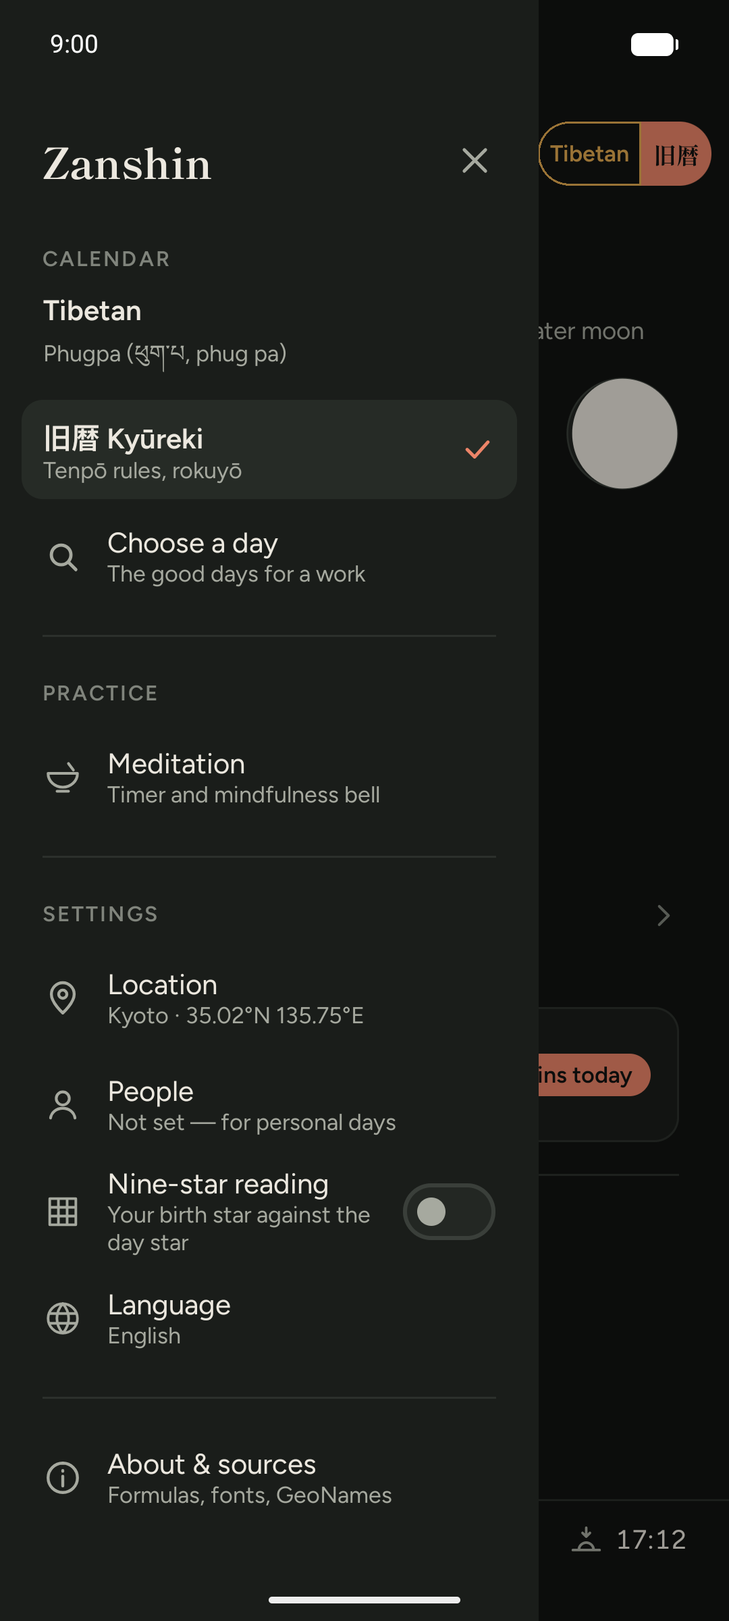
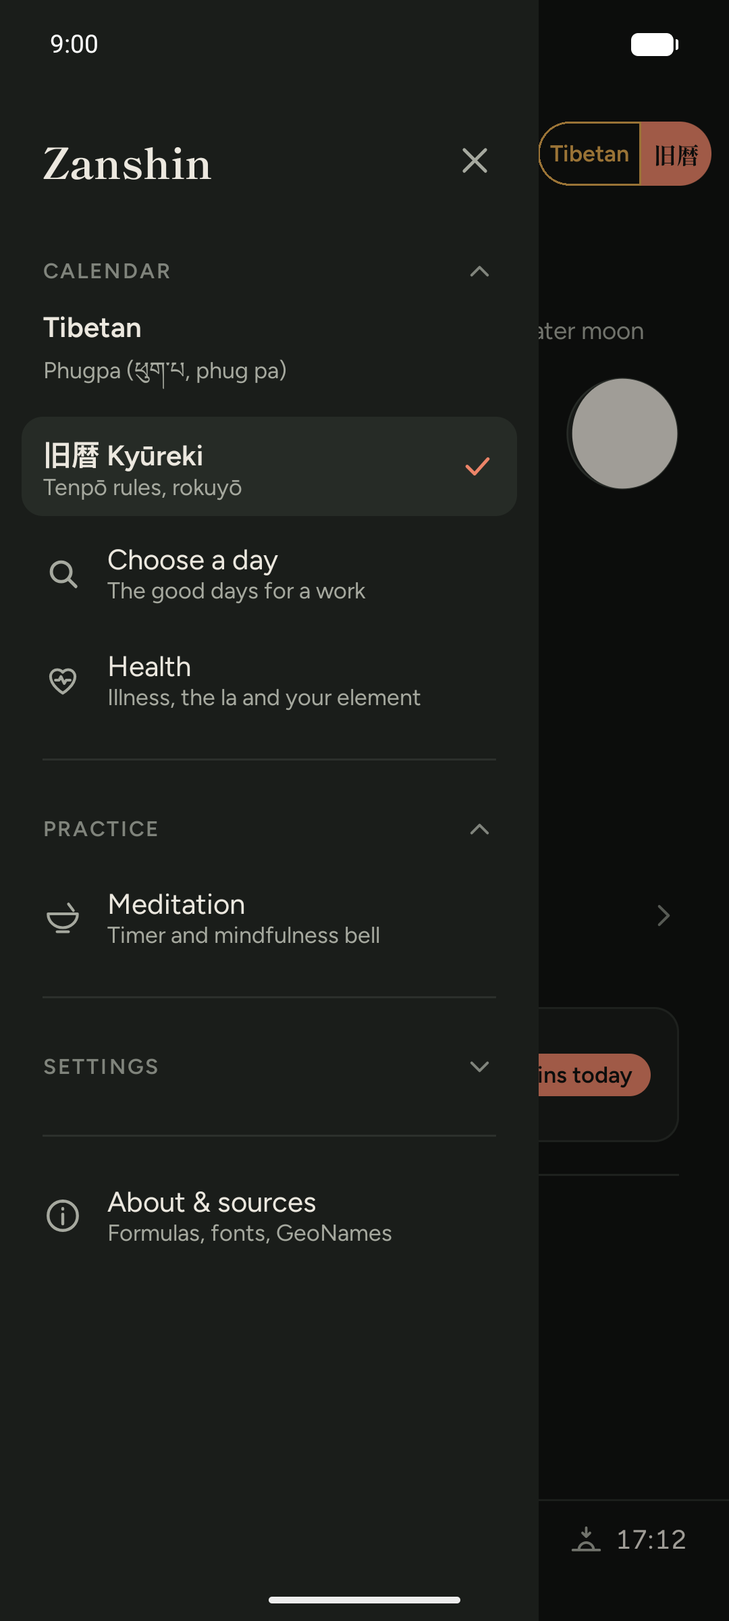
docs: the Health screen and the menu's groups (H1, H3, block 26)
SPEC 5.8 adds the element's mansions, the la and the day's illness as
built, with the reading of the tables' 21 as Abhijit among earth's four;
10.3 moves the vitality and body from Your day to Health; 10.5 gives the
menu's Health row and the groups that fold; 10.10 describes the Health
screen tab by tab and what is left; 8.3 names the Four Tantras. ROADMAP
marks block 26, H1 and H3 built with what was checked, and leaves D14
to the owner: the la's place on the 4th, 10th, 15th and 29th follows
WB's Phugpa list, where Dr. Chenagtsang's course differs. That TalkBack
speaks a header's state was not heard on the emulator, where injected
input did not move TalkBack's focus into the drawer.

README and both store listings name the Health screen. Store shot 5,
the menu, is retaken in both languages with Calendar and Practice
opened and Settings closed; store_shots.py opens them, and opens
Practice before Meditation for shot 6. Its caption and alt text say the
groups fold.

diff --git a/tools/emulator/store_shots.py b/tools/emulator/store_shots.py
@@ -8,7 +8,7 @@
 2. 旧暦 day: 2026-10-23 (十三夜, 霜降 begins), in Kyoto
 3. The Saga Dawa Düchen reading sheet, opened from the heading
 4. The 旧暦 almanac bands, from 中段 down
-5. The menu over the 旧暦 page
+5. The menu over the 旧暦 page, its Calendar and Practice groups opened, Settings left closed
 6. The meditation timer: a zazen of 20, 10 and 30 minutes, set from its preset
 7. The year of age of a man born 1976-06-01 (a fire dragon year, chart 6.2's
    subject) in 2026, opened from the year's balloon on 2026-10-23 in Lhasa
@@ -35,9 +35,11 @@ from emu import BIRTH_1976_06_01, KYOTO, LHASA, adb, nodes, prefs, language, res
 
 LABELS = {
     "en": {"festival": r"^Saga Dawa Düchen$", "menu": r"[Mm]enu", "meditation": r"^Meditation$",
-           "year": r"^Fire Horse year$", "year_of_age": r"year of age", "person": "Tenzin"},
+           "year": r"^Fire Horse year$", "year_of_age": r"year of age", "person": "Tenzin",
+           "calendar": r"^CALENDAR$", "practice": r"^PRACTICE$"},
     "ru": {"festival": r"^Сага Дава Дючен$", "menu": r"меню", "meditation": r"^Медитация$",
-           "year": r"Огонь-Лошадь$", "year_of_age": r"год жизни", "person": "Тензин"},
+           "year": r"Огонь-Лошадь$", "year_of_age": r"год жизни", "person": "Тензин",
+           "calendar": r"^КАЛЕНДАРЬ$", "practice": r"^ПРАКТИКА$"},
 }
 
 # The timer's presets for shot 6, named in the listing's language; the zazen is the plan set.
@@ -137,10 +139,14 @@ try:
     adb("shell", "input", "swipe", "540", "700", "540", "2000", "150")
     adb("shell", "input", "swipe", "540", "700", "540", "2000", "150")
     tap_at(find(labels["menu"], desc=True))
+    # The groups are closed on a fresh install (ROADMAP H3): two opened, one left closed, so the shot shows both.
+    tap_at(find(labels["calendar"]))
+    tap_at(find(labels["practice"]))
     shot(5)
 
     day("10230900", 2026, "KYUREKI", KYOTO, strings={"sit_plan": ZAZEN, "sit_presets": PRESETS[lang]})
     tap_at(find(labels["menu"], desc=True))
+    tap_at(find(labels["practice"]))
     tap_at(find(labels["meditation"]))
     shot(6)
 

diff --git a/docs/ROADMAP.md b/docs/ROADMAP.md
@@ -30,7 +30,7 @@ with the one that gives it a use. "Later" is not ranked.
 | 9 | T2.27 WB's days of the twelve links — built 2026-10-15 | S | WB's own reading of each link's day (vol. 2, pp. 351–356), found unread on 2026-10-11: works, directions, illness, remedy; it joins the link's lists | — |
 | 10 | A1 Light theme and colour themes | L | The palette is one dark `Palette` object, read about 510 times in 20 files, 29 of them in Canvas code; it becomes a theme chosen in Settings, with a light theme and dark and light alternatives, every tone and printed colour kept legible on each; the checks of the review of 2026-10-11 in its section | — (D5 settled 2026-10-11); U8–U18 and X2 first, so the screenshots are retaken once |
 | 11 | T2.26 The year's and the month's earth lords | L | WB's almanac writes them at the head of the year and of each month, and ch. 31's pp. 175–221 are unread; Year and Month tabs, their works counted (the owner, 2026-10-11) | D4, how they are counted |
-| 12 | H1–H3 The health screen, and the menu's groups collapsible | L | A screen of its own from the menu, with Tibetan medicine beside WB (Dr. Nida Chenagtsang, trusted by the owner): the element's mansions by the life force (left by T2.19), the la's place, vitality and body, the day's illness readings, then WB's illness reckoning; with it the menu's groups collapsible, closed by default, each remembering its last state (H3, S), since the screen is the first of several that lengthen the menu | T2.27; R1 for H2 |
+| 12 | H1–H3 The health screen, and the menu's groups collapsible — H1 and H3 built 2026-10-15, H2 open | L | A screen of its own from the menu, with Tibetan medicine beside WB (Dr. Nida Chenagtsang, trusted by the owner): the element's mansions by the life force (left by T2.19), the la's place, vitality and body, the day's illness readings, then WB's illness reckoning; with it the menu's groups collapsible, closed by default, each remembering its last state (H3, S), since the screen is the first of several that lengthen the menu | T2.27; R1 for H2 |
 | 13 | P1–P3 Relatives, the obstacles that need them, the bride's departure | L | The readings T4 left for want of other people's dates, and WB ch. 23's bride's departure, on relatives added to each saved person | P1 first |
 | 14 | R The reckonings, a section of their own | XL | WB's pebble divinations, chapters 20–30, in a menu section as Meditation has; the year of age moves there | R1 first; P1 for those that need relatives |
 | 15 | U8–U18 The UX review of 2026-10-11 | M | Eleven small items, each S, none changing a side, a tone or a reading: the sky line as one line, the date picker's jump, the brief's rows in the 旧暦 brief's form, the hours in short form, dots that read, second lines that state the fact, the election's civil dates, the calendar toggle, the two briefs alike, the bell's time picker, a first-run line; all eleven built 2026-10-11, blocks 34 to 37 | — |
@@ -80,7 +80,7 @@ moves up as soon as it is unblocked.
 | <a id="block-23"></a>23 | [T2.25](#t2-25) The Lunar day section by use — built 2026-10-10, released as 2.4.1 | — | — | Build block 23: T2.25, keep in the Lunar day section only what can be used or weighed, the hundred feet in Your day. |
 | <a id="block-24"></a>24 | [T2.27](#t2-27) WB's days of the twelve links — built 2026-10-15 | [RD1](#rd1) | [42](#block-42), the shape its readings are written in | Build block 24: T2.27, join WB's days of the twelve links (RD1) to the day's link. |
 | <a id="block-25"></a>25 | [T2.26](#t2-26) The year's and the month's earth lords | [RD2](#rd2), [RD3](#rd3), [RD4](#rd4), [RD5](#rd5), [RD6](#rd6) | [42](#block-42), the shape its readings are written in ([D4](#t2-26), the owner's choice of how they are counted) | Build block 25: T2.26, the Year and Month tabs from RD2–RD6, their works counted as D4 says. |
-| <a id="block-26"></a>26 | [H1](#h1) The health screen + [H3](#h3) The menu's groups collapsible | [RD1](#rd1), [RD7](#rd7), [RD8](#rd8), [RD9](#rd9), [RD10](#rd10) | [42](#block-42), the shape its readings are written in | Build block 26: H1, the Health screen from RD1 and RD7–RD10, with the element's mansions, and H3, the menu's groups collapsible, closed by default, each remembering its last state. |
+| <a id="block-26"></a>26 | [H1](#h1) The health screen + [H3](#h3) The menu's groups collapsible — built 2026-10-15 ([D14](#h1) for the owner) | [RD1](#rd1), [RD7](#rd7), [RD8](#rd8), [RD9](#rd9), [RD10](#rd10) | [42](#block-42), the shape its readings are written in | Build block 26: H1, the Health screen from RD1 and RD7–RD10, with the element's mansions, and H3, the menu's groups collapsible, closed by default, each remembering its last state. |
 | <a id="block-27"></a>27 | [P1](#p1) Relatives | [RD13](#rd13), [RD14](#rd14), [RD15](#rd15), [RD16](#rd16) | — | Build block 27: P1, the relatives of each saved person. |
 | <a id="block-28"></a>28 | [R1](#r) The Reckonings section | [RD11](#rd11) | — | Build block 28: R1, open the Reckonings section from RD11's inventory, with the year of age moved into it. |
 | <a id="block-29"></a>29 | [P2](#p2) The natal trigram and the obstacles | [RD13](#rd13), [RD14](#rd14) | [27](#block-27), [28](#block-28) | Build block 29: P2, the natal trigram and the spouses' and the dead's obstacles. |
@@ -867,8 +867,8 @@ it. It is item E below, built 2026-10-09.
   матери» and the birth mansion), and with no birth date (no row).
 - **Left.** The element's mansions by the life force (p. 330, tables
   p. 345: own, mother, friend, child, enemy quarters and the grave
-  mansions), which would put a second row on every day: planned on the
-  Health screen (H1, 2026-10-11); the mansion of
+  mansions), which would put a second row on every day: built on the
+  Health screen (H1, 2026-10-15); the mansion of
   conception (no source defines it); E6's exception for the enemy weekday
   and the death mansion.
 
@@ -1285,7 +1285,7 @@ verdict, and the owner's decisions of 2026-10-10:
   friends gain feeling beside the horse, and 28 January's war loses the
   Zon trigram, the sense sources naming taking a town good. Left out, as
   the Work says or as the shape requires: the loss (no row holds it), the
-  illness (H1), p. 356's hours (question 19), and the unidentified words
+  illness (H1, built 2026-10-15 as the link's Illness row), p. 356's hours (question 19), and the unidentified words
   (day-letters.md, *What the app takes from them*). Checked on the
   emulator in both languages (contact's day, 2026-10-15).
 
@@ -2761,49 +2761,54 @@ menu's groups collapsible (H3).
   does not reckon, no works or no weight, is shown on its tab with a
   grey dot: it has some influence, and WB's weighing does not count it.
 
-### <a id="h1"></a>H1. The health screen — planned 2026-10-11
+### <a id="h1"></a>H1. The health screen — built 2026-10-15 (SPEC §5.8, §8.3, §10.3, §10.5, §10.10)
 
-- **What WB has.** Read on the scan where marked; the rest found in the
-  etext:
-  - the element's mansions by the life force (vol. 2, p. 330, tables
-    pp. 345–346, read: [personal-mansions.md](sources/personal-mansions.md),
-    *By element*): the own, mother, friend, child and enemy quarters and
-    the great and small grave mansions; the same table's weekdays are
-    built (T2.19);
-  - the la's place in the body by date (vol. 2, pp. 303–305, read and
-    built, T2.16, in the lunar date's sheet), and the hair dates (p. 404,
-    built, T2.15);
-  - the vitality and body of the date and the hour against the birth
-    year, the divination of health (built, SPEC §5.9: Your day and the
-    hours panel);
-  - the illness parts of the date's, weekday's, link's and day animal's
-    readings (vol. 2, pp. 297–312, 351–359; the links', read in RD1,
-    left by [T2.27](#t2-27) for this screen), and the trigram's goddesses (vol. 1, pp. 449–450,
-    built);
-  - bloodletting and moxa in the readings of the year of age's mewa
-    (vol. 1, pp. 403–405), to be checked against the year sheet (T4);
-  - the medical works the weighing already decides (taking and starting
-    medicine, treatment, surgery, bloodletting, making medicine:
-    `Activities.kt`).
-- **Work.** First a reading pass, WB (vol. 1, ch. 20, 21 and 25; vol. 2,
-  ch. 33) and Dr. Chenagtsang's works, for the movements of the la and
-  the life force (*srog*) through the body and for health and illness by
-  date, month, hour and age, into `docs/sources/health.md`, with what is
-  calculable and whose it is. Then the Health screen from the menu, in
-  tabs by subject as the reading sorts them: with a birth date, the day's
-  mansion as one of the element's quarters for the life force with
-  p. 330's reading, vitality and body (moved from Your day) and the la's
-  place; for everyone, the day's illness readings and the medical works'
-  sides as the weighing gives them; what the medical sources add, with
-  the grey dot where WB does not reckon it. Your day links to the screen.
-  Whether the enemy and grave mansions are absolute as the enemy weekday
-  is (E6) is settled from the text: p. 338 names the weekday only.
-- **Block.** [26](#block-26); reads [RD1](#rd1), [RD7](#rd7), [RD8](#rd8), [RD9](#rd9), [RD10](#rd10); builds on
-  [42](#block-42) for the shape its readings are written in ([X1](#x1)).
-- **Done when.** Vectors for the test birth date (1976-06-01, life force
-  earth); `CatalogTest`; SPEC §5.8, §8.3, §10.3, §10.5; both languages
-  on the emulator; one line on the screen that its readings are the
-  tradition's, not medical advice.
+The Health screen from the menu and from Your day, on the shown day, in
+four tabs: Today (falling ill today, by the date's round of eight with
+the perilous days, the weekday, the link and the goddess of the day; the
+la's place by the date and its course within the day), You (the day's
+mansion as a quarter of the life force's element, the grave mansions,
+the la's element, the vitality and body moved from Your day, the year
+of age on the seven-red), Treatment (the medical works as the person's
+day page gives them) and Medicine (the Four Tantras' humours and
+seasons with the grey dot), and a line that the readings are the
+tradition's, not medical advice. The illness lines are Illness rows of
+the date's, weekday's and link's readings, so the day page's sheets
+show them too. What WB has and what the readings found is in
+[sources/health.md](sources/health.md) (RD7–RD10, RD12).
+
+- **Settled from the text.** The enemy and grave mansions are not
+  absolute as the enemy weekday is (E6): p. 338 names the weekday only,
+  and neither mansion has a reading for the living's day (RD10); the
+  enemy quarter is shown with no dot, the grave mansions as reckoned for
+  the dead. The tables' 21 among earth's four is Abhijit (vol. 1,
+  p. 232), so earth's fourth and three grave mansions fall on no day.
+- **Checked.** `HealthTest` (the five tables of pp. 345–346 cell by
+  cell, the la's element, the round of eight, the test birth date
+  1976-06-01, life force earth, la fire, over 15–24 October 2026: child
+  mansions Anurādhā to Śravaṇa, friend Dhaniṣṭhā to Pūrvabhādrapadā);
+  `CatalogTest` with the new families held to the shape, no allowance
+  (H1), X4's allowance down to 24 with the dremo named one way;
+  `TranslationsTest`. On the emulator in English and Russian
+  (15 October 2026: Anurādhā a child mansion, the 5th's illness and the
+  hollow of the knee, the enemy weekday's day with no good work under
+  Treatment; 18 October, the 8th, a perilous day; 15 June 2027 with a
+  person born 1977-06-01, the seven-red and Citrā an own mansion).
+- **Left.** The six moxa dates and the syllables of Dr. Chenagtsang's
+  tables, which are not WB's (RD8, RD9); the la pulse, read at the pulse
+  and not by date; which Tibetan months the Four Tantras' seasons are,
+  which no source read gives, so the Medicine tab names no season as
+  today's; WB's illness reckoning (H2).
+- **D14, the owner's word first** (RD8, open questions 58 and 84,
+  [sources/health.md](sources/health.md), *KL's tables in WB*): the la's
+  place by date follows WB's Phugpa list (p. 303), as the lunar dates'
+  readings already did. Dr. Chenagtsang's course, the Tsuglag Rigje
+  column of Deumar's table with Mipham's crown and sole, differs on four
+  dates: the 4th the knee (WB the waist), the 10th the shoulder blade
+  (WB the top of the shoulder), the 15th the crown and whole body (WB the
+  shoulder blade), the 29th the instep (WB the shin). Whether the screen
+  keeps WB's alone, or gives his beside it with the grey dot, is the
+  owner's; until then WB's stands.
 
 ### <a id="h2"></a>H2. The illness reckoning — planned 2026-10-11
 
@@ -2819,39 +2824,19 @@ menu's groups collapsible (H3).
 - **Done when.** Vectors where Dorje or WB give a worked example;
   `CatalogTest`; SPEC; both languages.
 
-### <a id="h3"></a>H3. The menu's groups collapsible — planned 2026-10-11
+### <a id="h3"></a>H3. The menu's groups collapsible — built 2026-10-15 (SPEC §10.5)
 
-- **Gap.** The menu (SPEC §10.5) is one column in three groups, Calendar,
-  Practice and Settings, with About & sources at the foot, and today it
-  fits a phone screen. The Health screen (H1) adds a row, Reckonings (R1)
-  a group with a screen for each reckoning built, the themes (A1) a
-  settings row: the column scrolls, and the row wanted is below the fold.
-  The owner (2026-10-11): the groups collapsible, collapsed by default,
-  each remembering the state it was last left in.
-- **Work.** Each group's small-capital label becomes a header row that
-  opens and closes its group, with a chevron that turns to show the
-  state; the rows fold with an animation of the height; About & sources
-  stays alone at the foot, always shown, outside any group. On a fresh
-  install every group is closed; the state is kept per group in the
-  preferences (`Settings.kt`, one key per group, as the first-run
-  counters are), so a group opened stays open across the menu's closing
-  and the app's restart, and one closed stays closed, each apart from the
-  others. A new group (R1) starts closed as well. The page's calendar
-  toggle (U15) switches the calendar, so a closed Calendar group hides
-  nothing needed daily. Screen readers get each header as a button with
-  its expanded state. No reading: the headers are the groups' present
-  labels, the only new interface text the headers' descriptions.
-  SPEC §10.5.
-- **Block.** [26](#block-26), with H1, the first item that lengthens the
-  menu; no reading; waits on no build.
-- **Done when.** A fresh install on the emulator opens the menu with every
-  group closed and About & sources shown; a group opened stays open
-  across the menu's closing and a restart, one closed stays closed, each
-  apart from the others; TalkBack reads each header with its state; both
-  languages; `TranslationsTest`; SPEC §10.5; store shot 5 (the menu)
-  retaken in both languages, its caption in `screenshots.toml` saying
-  the groups fold, and `tools/emulator/store_shots.py` opening the
-  groups the shot shows.
+Each group's label is a header row with a turning chevron that opens and
+closes its rows; every group closed on a fresh install, each keeping its
+own last state in the preferences; About & sources outside the groups.
+Checked on the emulator: a fresh install opens the menu with the three
+groups closed and About & sources shown; the Calendar group opened stays
+open after the app is stopped and started, the other two closed; both
+languages; `TranslationsTest`. Each header is a button with its state
+("open", "closed") for screen readers; that TalkBack speaks it was not
+heard on the emulator, where injected taps and keys did not move
+TalkBack's focus into the drawer. Store shot 5 (the menu) opens the
+groups it shows (`tools/emulator/store_shots.py`).
 
 ## People
 

diff --git a/docs/SPEC.md b/docs/SPEC.md
@@ -236,7 +236,10 @@ day by day against Henning's computed calendars (§9):
 | Monthly observances | 8th, 10th, 15th (Sojong), 25th, 30th (Sojong), after Edition Rabten |
 | Personal day | luck, life or anti weekday for the animal of the birth year (Rabten's table); needs a birth date (§10.5) |
 | Personal mansions | whether the day's mansion is one of the six of the birth-year animal (bla, srog, dbang, skeg, bdud, gshed skar): the White Beryl, vol. 2, p. 330 (1996), its slips settled by the Sakya *nor bu'i me long* (p. 64) and Nam mkha' seng ge's *skar yig*, which print the same table ([sources/personal-mansions.md](sources/personal-mansions.md)); bla, srog and dbang skar lucky, the other three unlucky, as both texts call them; needs a birth date |
-| Own days by the birth date | WB vol. 2, p. 338 (`ownDays`, ROADMAP T2.19): the birth weekday (the weekday of the birth date, p. 379); the weekday's place among the five of one's element, counted from the birth year's life force (*srog*), which p. 330 says is reckoned as the clan's element is: own (*rang gza'*, WB's *bla* and *dbang gza'* too, not the birth animal's *bla gza'*), mother, friend, child, enemy by the elements' relations, as the table of p. 346 gives them (`elementWeekday`), the weekdays' elements those of the *nag rtsis* (vol. 1, p. 257: Sun and Mars fire, Moon and Mercury water, Jupiter wood, Venus iron, Saturn earth); and the birth mansion, the almanac's mansion of the birth date (Phug pa Lhun grub rgya mtsho's coarse reckoning; no hour is asked). Birth and own weekday lucky with p. 338's works (battle array, contests of skill, pleading a case, trade, trials of strength, dice, horse races, archery, works that stir up strife); mother and friend lucky, anything good (p. 330); child no dot, middling (p. 330); enemy unlucky, every work avoided (p. 338); birth mansion lucky with p. 338's works. The element's mansions (p. 330, tables p. 345) and the mansion of conception (no source defines it) are not built ([sources/personal-mansions.md](sources/personal-mansions.md)); needs a birth date |
+| Own days by the birth date | WB vol. 2, p. 338 (`ownDays`, ROADMAP T2.19): the birth weekday (the weekday of the birth date, p. 379); the weekday's place among the five of one's element, counted from the birth year's life force (*srog*), which p. 330 says is reckoned as the clan's element is: own (*rang gza'*, WB's *bla* and *dbang gza'* too, not the birth animal's *bla gza'*), mother, friend, child, enemy by the elements' relations, as the table of p. 346 gives them (`elementWeekday`), the weekdays' elements those of the *nag rtsis* (vol. 1, p. 257: Sun and Mars fire, Moon and Mercury water, Jupiter wood, Venus iron, Saturn earth); and the birth mansion, the almanac's mansion of the birth date (Phug pa Lhun grub rgya mtsho's coarse reckoning; no hour is asked). Birth and own weekday lucky with p. 338's works (battle array, contests of skill, pleading a case, trade, trials of strength, dice, horse races, archery, works that stir up strife); mother and friend lucky, anything good (p. 330); child no dot, middling (p. 330); enemy unlucky, every work avoided (p. 338); birth mansion lucky with p. 338's works. The mansion of conception (no source defines it) is not built ([sources/personal-mansions.md](sources/personal-mansions.md)); needs a birth date |
+| The element's mansions | WB vol. 2, p. 330, with the tables pp. 345–346 (`Health.quarter`, ROADMAP H1): the day's mansion as a quarter of the element of the birth year's life force, counted as the weekdays are: the six eastern mansions from Kṛttikā (2–7) wood, the six southern (9–14) fire, the six western (16–21) iron, the six northern (22–26 and Aśvinī) water, the four between (Bharaṇī, Āśleṣā, Viśākhā and Abhijit) earth; own (good for anything), mother and friend (good), child (middling, no dot), enemy (no reading of its own, no dot; "every work avoided" is the enemy weekday's, p. 338). The tables print 21 both among the western six and among earth's four; WB vol. 1, p. 232 ends the western six with Śravaṇa and names Abhijit among the four, so a day in Śravaṇa is iron's and earth's fourth falls on no day. The great and small grave mansions of each element, all among earth's four (wood Viśākhā and Bharaṇī, fire Abhijit and Āśleṣā, earth Āśleṣā and Abhijit, iron Bharaṇī and Viśākhā, water Āśleṣā and Abhijit), are reckoned for the dead and have no reading for the living's day; shown on the Health screen (§10.10), not weighed; needs a birth date |
+| The la | Its element the mother of the life force's (WB vol. 1, p. 253: water for wood, fire for earth); its place by the lunar date, the Phugpa list of WB vol. 2, p. 303, as the lunar date's reading gives it; its course within any day (p. 304): both feet at daybreak, the neck at sunrise, the hollow of the nape early in the morning, the lips late in the morning, the middle of the chest at noon, the navel early in the afternoon, the heart late in the afternoon, the back towards evening, both feet at sunset, spread above the navel from dusk to daybreak, the verse's times and not the clock's; where it stands, bloodletting, moxibustion and other treatment are avoided ([sources/health.md](sources/health.md), RD10) |
+| The day's illness | What falling ill on the day means, as Illness rows of three readings: the lunar date's, dates 1–8 with lines of their own and every later date the same as one of them in a round of eight (WB vol. 2, pp. 297–302; the 9th as the 1st, the 30th as the 6th), the 8th, 15th, 22nd and 30th marked as the four perilous days (p. 302); the weekday's (pp. 308–312); the link's, how long the illness runs (pp. 351–356). Doubtful words are left out (the date's «ཀླུ་གྲ», the rites of the 1st's last line) ([sources/health.md](sources/health.md)) |
 
 **The times within the day** (`DayTimes`; the White Beryl, vol. 1,
 pp. 177–178 and ch. 15, pp. 180–182; [sources/almanac-page.md](sources/almanac-page.md),
@@ -1008,7 +1011,7 @@ voices, so that the tone and the lists cannot go separate ways.
   voice's dot is solid: the other rows' dots are outlines, so that the
   column of dots reads as each voice's own tone and not as a count of
   sides, which the White Beryl does not make (above). What is shown but not weighed stands apart: the person's
-  own days and mansions in "Your day", with vitality and body; the
+  own days and mansions in "Your day", the vitality and body on the Health screen (§10.10); the
   *bla mkhyen*, the great black day and the earth lords' courses (§5.13) in "Also today". The nectar periods, times within the day
   (§5.13), are in the brief's "By the hour" and on the hours panel, not
   in the Almanac.
@@ -1885,6 +1888,9 @@ name both. Sewing tents is a third, beside pitching them.
 | The eclipses, by the *byed rtsis* | The White Beryl, Beijing 1996, vol. 1, ch. 4, pp. 31–32, and ch. 9, pp. 59, 62 and 65 (BDRC MW2CZ8040); checked against Jean Meeus, *Astronomical Algorithms*, 2nd ed., ch. 54 |
 | The letters of the day: the Kālacakra's and the *dbyangs 'char*'s vowels and consonants, the stage, the twelve links, the hundred feet | The White Beryl, Beijing 1996, vol. 1, pp. 16–19, 97–98, 150–153 and 173–178, with the Zhol print (BDRC MW1KG1617) for the table and the model almanac (BDRC MW2CZ8040) |
 | The earth lords that move by date, Rāhu's among them | The White Beryl, Beijing 1996, vol. 2, pp. 226–235, with the results pp. 364 and 368–369, and the model almanac, vol. 1, pp. 154–171 (BDRC MW2CZ8040) |
+| The element's mansions and grave mansions | The White Beryl, Beijing 1996, vol. 2, p. 330 and the tables pp. 345–346, with vol. 1, p. 232 for Abhijit (BDRC MW2CZ8040) |
+| The la's element, course and the illness of the day; the year of age on the seven-red | The White Beryl, Beijing 1996, vol. 1, pp. 253 and 403–404, vol. 2, pp. 297–304, 308–312 and 351–356 (BDRC MW2CZ8040) |
+| The humours and the seasons (the Health screen's Medicine tab) | The Four Tantras (རྒྱུད་བཞི, rgyud bzhi), the Serthang print, Root Tantra ch. 3 and 6, Explanatory Tantra ch. 14 (BDRC MW3CN5036) |
 | Weighing the day | *'Bras rtsis bai dkar dgongs don kun phan me long*, img. 13–14 (BDRC W4CZ65561), with the White Beryl, vol. 2, pp. 333 and 337 |
 | Tenth day | Jigme Lingpa, tr. Rigpa Translations 2013, Lotsawa House |
 
@@ -2270,14 +2276,9 @@ canvas "Zanshin Calendar — basic design".
   year, earth"), one row with each one's dot where there are two or more,
   titled "Your weekday" with their names under it, its sheet giving each
   reading in turn; the personal mansions (on the days the mansion is one
-  of one's six) and the birth mansion. Then the vitality and body of the
-  birth year against those of the lunar date (§5.9), one row each: the aspect, its pebbles, the relation and both
-  elements ("Body ××, enemy: the day's water to your fire"). A row opens
-  the relation's reading, then how it was worked out: the lunar date's and
-  month's signs, the year's, how the month's and date's elements are
-  counted, the day's element, yours and the relation.
-  The tone dot is lucky for white pebbles only, unlucky for black only,
-  mixed for both.
+  of one's six) and the birth mansion; the hundred feet. Last a row
+  "Health" that opens the Health screen on the day (§10.10), where the
+  vitality and body of the date stand since ROADMAP H1 (2026-10-15).
 - **Also today:** after Your day, what the day holds that the weighing
   does not count: the *bla mkhyen*'s direction (§5.11), with its compass,
   and on its dates the great black day (§5.11), its title the meeting of
@@ -2397,7 +2398,7 @@ canvas "Zanshin Calendar — basic design".
 - A **burger button, top left**, opens a menu that slides out from the left
   as a full-height column, scrolling when it does not fit, in groups under
   small capital labels, a line between groups: **Calendar** (the two
-  calendars and Choose a day), **Practice** (Meditation, §10.9),
+  calendars, Choose a day and Health), **Practice** (Meditation, §10.9),
   **Settings** (location, people, nine-star reading, language), and
   About & sources alone at the foot. About & sources lists the
   calendars' methods, the readings' sources and licences, and, under
@@ -2458,6 +2459,17 @@ canvas "Zanshin Calendar — basic design".
   screen. Until U8 the place stood on a second line, the two about 110 dp.
 - **Choose a day**, under the two calendars: the election (§10.8) of the
   calendar shown, from the shown day, its work not yet picked.
+- **Health**, under Choose a day: the Health screen (§10.10) on the
+  shown day.
+- **The groups fold** (ROADMAP H3, built 2026-10-15): each group's label
+  is a header row with a chevron that turns, a button with its state
+  ("open", "closed") for screen readers; a tap opens or closes its rows
+  with an animation of the height. Every group is closed on a fresh
+  install, and each keeps the state it was last left in, apart from the
+  others, across the menu's closing and the app's restart (preferences
+  `menu_calendar`, `menu_practice`, `menu_settings`). About & sources
+  stands alone at the foot, always shown. A group added later starts
+  closed.
 
 ### 10.6 Deferred until the basic design is set
 
@@ -2705,6 +2717,52 @@ carries no sound file.
 - No network: the §2 rule holds; the permissions added are the
   foreground service's, the wake lock, notifications, exact alarms and
   boot.
+
+### 10.10 The Health screen
+
+The Tibetan day's illness, the la and the person's element on a screen
+of their own (ROADMAP H1, built 2026-10-15; [sources/health.md](sources/health.md)),
+opened from the menu (§10.5) and from Your day's last row (§10.3) on
+the day shown there. Its header has Back, the title and the date, and
+the day before and after. Under it four tabs by subject, and a line:
+the readings are the tradition's, not medical advice.
+
+- **Today:** "Falling ill today", one row whose sheet gives in turn the
+  date's, the weekday's and the link's Illness rows (§5.8, *The day's
+  illness*) and the goddess of the day (§5.11); on the four perilous
+  days its dot is unlucky and its line says so. "The la today": the
+  la's place by the date, its sheet the course within the day (§5.8,
+  *The la*).
+- **You** (with a person chosen; else the way to People): the day's
+  mansion as a quarter of the life force's element, with its reading;
+  the grave mansion where the day's is one; the la's element; the
+  vitality and body of the date against the birth year (§5.9; until
+  H1 in Your day), each row as before: the aspect, its pebbles, the
+  relation and both elements, its sheet the relation's reading and how
+  it was worked out, the dot lucky for white pebbles only, unlucky for
+  black only, mixed for both; in a year of age whose mewa is the
+  seven-red, its reading by the colour alone (WB vol. 1, pp. 403–404:
+  the full round avoids bloodletting and moxa that year, the short one
+  says they will be done; born under the two-black, p. 405 in the year
+  sheet makes moxa good and bloodletting bad, and WB says not which
+  leads).
+- **Treatment:** the medical works (`ActivityFamily.MEDICINE`) as the
+  person's day page gives them (§5.12), each with the voices on its
+  side and their readings; on the person's day of every work avoided
+  that first, and no work good.
+- **Medicine:** what the Four Tantras add and the White Beryl does not
+  reckon, with the grey dot (`Tone.NEUTRAL`; the owner, 2026-10-11):
+  the three humours, the season and the two times each one's illness
+  rises, its people and its country and conduct (Root Tantra ch. 3 and
+  6), and the six seasons' food and conduct (Explanatory Tantra
+  ch. 14), read on the Serthang print (RD9). Neither names works, so
+  neither enters the weighing. Which season a Tibetan month is in is
+  not reckoned: no source read gives the seasons' months.
+
+Not built: Dr. Nida Chenagtsang's own tables, which are WB's but for the
+six moxa dates and the syllables (RD7–RD9), the la pulse (a sign read at
+the pulse, not by date), WB's illness reckoning (H2) and the mansion of
+conception.
 
 ## 11. Milestones and done criteria
 

diff --git a/README.md b/README.md
@@ -32,6 +32,13 @@ readings of that day and sunrise, solar noon and sunset for your place.
   White Beryl's elemental divination: mewa, trigram and progressed sign,
   the pebbles with their predictions, growth and decline, and the year's
   obstacles.
+- **Health:** what falling ill today means by the date, the weekday,
+  the link and the goddess of the day, the four perilous days; where the
+  la sits by the date and moves through the day; the day's mansion as a
+  quarter of your element, the la's element, the vitality and body of
+  the date and the year of age on the seven-red; the medical works as
+  the day is weighed; and the Four Tantras' humours and seasons. The
+  tradition's readings, not medical advice.
 - **旧暦:** month and day, 六曜, the current solar term, moon phase, 十二直,
   二十八宿, 九星, 選日 and 暦注下段 (with the lower band's own rules), 雑節,
   干支 and 恵方.
